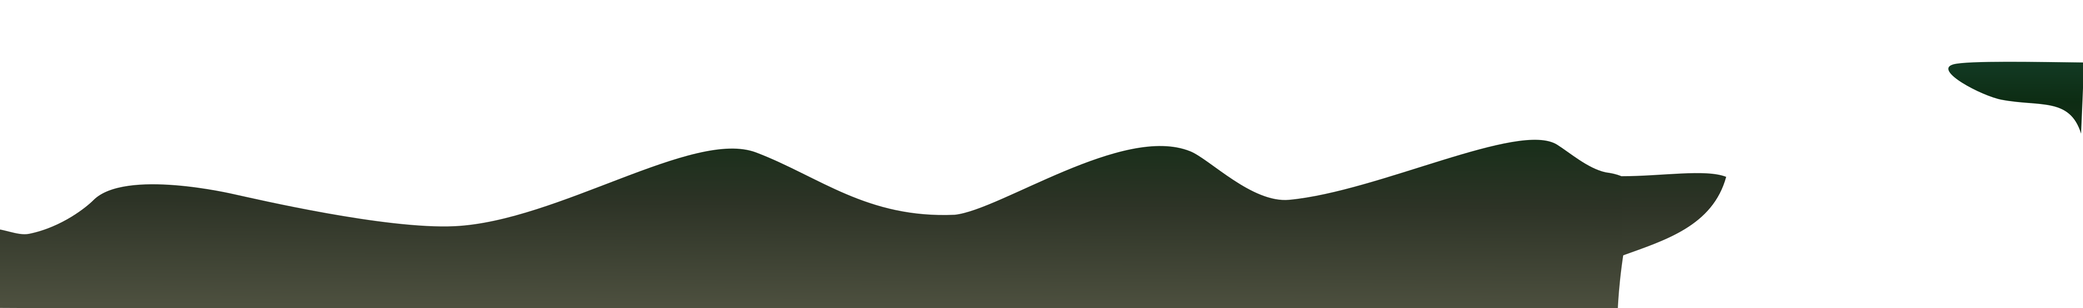
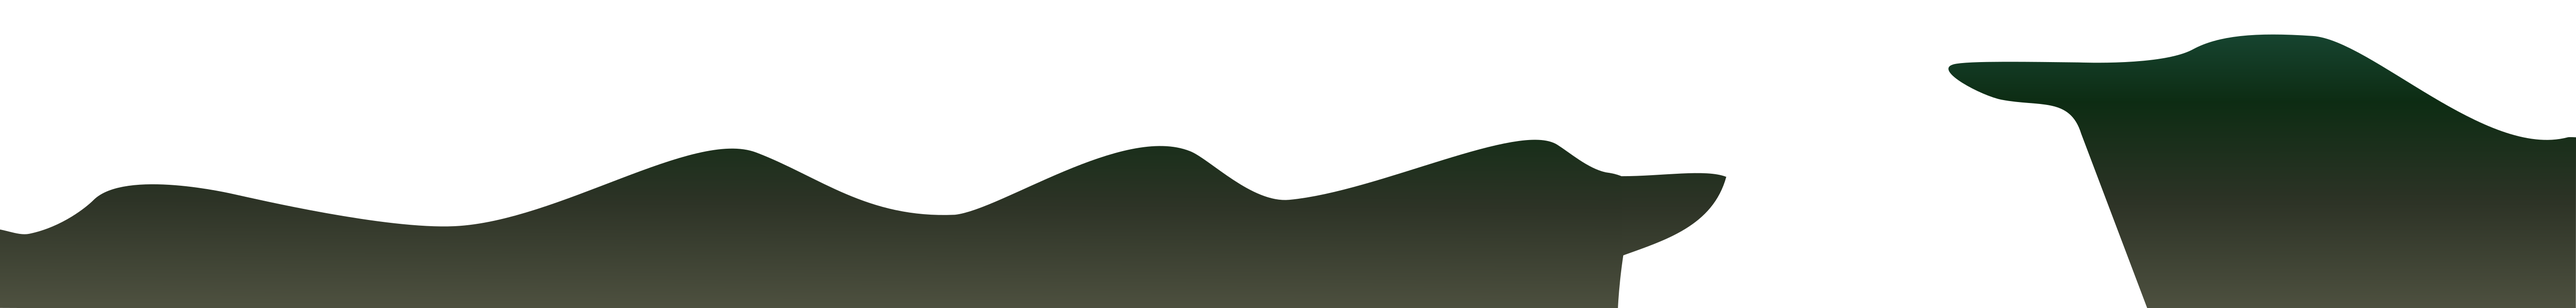
1.1 updated finished 3.1 added 4.1 and 1.3 still working on transitions

Changed region(s): [[0.0, 0.0938, 1.0, 1.0]]

diff --git a/SceneObjects.js b/SceneObjects.js
@@ -1,11 +1,53 @@
 // Em ordem inversa de aparição
 
+
 // 1.3
+
+sceneOneThree = new Scene(null, "OneOne");
+sceneOneThree.AdditionalStart = function() {
+    this.player.x = 3060.52;
+    this.player.y =  341.07;
+    this.player.graphic.x = 3060.52;
+    this.player.graphic.y =  341.07;
+    
+    this.updateTargetAfterEnded = true;
+    this.player.hasEnded = true;
+    this.timeToEndAfterEndedPath = 10000;
+    this.targetFollowPos = 3390;
+    this.target.x = 3390;
+    this.targetFollowPlayer = false;
+    
+    //game.camera.unfollow();
+    game.camera.x = 3390 - 480;
+   // game.camera.follow(this.target, Phaser.Camera.FOLLOW_LOCKON, 0.1, 0.1);
+}
+
+
+// 4.1
+
+pathFourOne = {x:[31, 142, 303, 437, 650, 849, 994, 1068, 1161, 1278, 1395, 1515, 1624, 1761, 1899, 1983],y : [318, 335, 391, 422, 397, 354, 337, 344, 388, 445, 467, 466, 502, 547, 543, 543]};
+
+sceneFourOne = new Scene(pathFourOne, "FourOne", sceneOneThree);
+sceneFourOne.AdditionalStart = function() {
+    this.other = game.add.sprite(2132,542, "cube");
+    this.other.pivot.x = 30;
+    this.other.pivot.y = 30;
+    this.other.tint = 0xECC599;
+}
+
+sceneFourOne.AdditionalEnd = function() {
+    this.other.destroy();
+}
+
+sceneFourOne.timeToEndAfterEndedPath = 2000;
+
+
+// 3.1
 
 pathThreeOne = {x : [-36, 179, 315, 434, 567, 680, 804, 864, 936],
 y :  [108, 264, 303, 356, 437, 497, 527, 578, 666]}
 
-sceneThreeOne = new Scene(pathThreeOne, "ThreeOne");
+sceneThreeOne = new Scene(pathThreeOne, "ThreeOne", sceneFourOne);
 sceneThreeOne.playerWalkAlone = true;
 sceneThreeOne.maxVel = 30;
 sceneThreeOne.followTarget = false;
@@ -22,6 +64,8 @@ sceneThreeOne.AdditionalUpdate = function() {
     }
 }
 
+sceneThreeOne.timeToEndAfterEndedPath = 1;
+
 
 
 
@@ -32,6 +76,8 @@ y : [384, 434, 452, 452, 428, 397, 359, 333, 308, 295, 328, 373, 415, 433, 404, 
 
 sceneOneOne = new Scene(pathOneOne, "OneOne", sceneThreeOne);
 sceneOneOne.updateWhenEndedPath = function() {
-    this.target.x = this.target.x + (3390 - this.target.x) * 0.01;
+    if(this.target.x < 3390)
+        this.target.x += 190 *game.time.physicsElapsed;
+   // this.target.x = this.target.x + (3390 - this.target.x) * 0.01;
 }
 

diff --git a/Scene.js b/Scene.js
@@ -13,6 +13,7 @@ function Scene( path, scenarySpr, nextScene) {
     this.maxVel = 30
     this.playerWalkAlone = false;
     this.targetFollowPlayer = true;
+    this.targetFollowPos = 480;
     this.followTarget = true;
     this.updateTargetAfterEnded = false;
     this.timeToEndAfterEndedPath = 5000;
@@ -22,10 +23,11 @@ Scene.prototype.start = function(target, player, game) {
     this.HasEndedPath = false;
     this.isStarted = true;
     this.cursors = game.input.keyboard.createCursorKeys();
-    game.scale.fullScreenScaleMode = Phaser.ScaleManager.SHOW_ALL;
+   
     this.target = target;
     this.player = player;
-    player.setPath(this.path.x, this.path.y);
+    if(this.path != null)
+        player.setPath(this.path.x, this.path.y);
     
     if(this.followTarget) {
         game.camera.follow(this.target, Phaser.Camera.FOLLOW_LOCKON, 0.1, 0.1);
@@ -98,19 +100,19 @@ Scene.prototype.TargetUpdate = function() {
         if(this.targetFollowPlayer)
             this.target.x = this.player.x - 60;
         else
-            this.target.x = 480 - 60;
+            this.target.x =  this.targetFollowPos - 60;
     }
     else if(this.cursors.right.isDown){
         if(this.targetFollowPlayer)
             this.target.x = this.player.x + 120;
         else
-            this.target.x = 480 + 120;
+            this.target.x = this.targetFollowPos + 120;
     }
     else {
         if(this.targetFollowPlayer)
             this.target.x = this.player.x + 30;
         else
-            this.target.x = 480 + 30;
+            this.target.x = this.targetFollowPos + 30;
     }
 }
 

diff --git a/Game.js b/Game.js
@@ -4,8 +4,11 @@ AppStates.Game = function () {
 
 AppStates.Game.prototype.create = function () {
    
+    game.input.keyboard.addKey(Phaser.Keyboard.F).onUp.add(AppStates.goFull);
     game.time.advancedTiming = true;
     game.time.desiredFps = 60;
+    
+    game.scale.fullScreenScaleMode = Phaser.ScaleManager.SHOW_ALL;
     
     this.inputs = { right : {}, left : {}, esc : {}, space : {}};
     this.inputs.esc = game.input.keyboard.addKey(Phaser.Keyboard.ESC);
@@ -32,9 +35,13 @@ AppStates.Game.prototype.create = function () {
     //this.renderingGroup.add(this.currentScene.bgWorld);   
    //this.renderingGroup.add(this.player);
   
-
+    game.input.keyboard.addKey(Phaser.Keyboard.C).onUp.add(this.printPos,this);
 
 };
+
+AppStates.Game.prototype.printPos = function() {
+    console.log("pos : " + this.player.x + ", " + this.player.y);
+}
 
 AppStates.Game.prototype.update = function () {
     
@@ -56,9 +63,11 @@ AppStates.Game.prototype.update = function () {
 
 AppStates.Game.prototype.nextScene = function(scene){
     this.currentScene.end();
-    game.camera.flash(0x000000,1000,true);
     this.currentScene = scene;
-    game.time.events.add(900, this.nextScenept2, this);
+    game.time.events.add(500, this.nextScenept2, this);
+    game.camera.flash(0x000000,1000,true);
+   
+
 
 }
 

diff --git a/Editor.js b/Editor.js
@@ -23,10 +23,10 @@ AppStates.Editor.prototype.create = function () {
     this.background = game.add.sprite(0,0,"bg");
     
 
-    this.bgWorld = game.add.sprite(-480,0,"OneOne");
+    this.bgWorld = game.add.sprite(-480,0,"FourOne");
    // this.bgWorld = game.add.sprite(0,0,"ThreeOne");
     this.path = new Path(this.bgWorld.width * 1.2, this.bgWorld.height* 1.2);
-    this.path.AddArray(pathOneOne);
+    this.path.AddArray(pathFourOne);
     
     game.world.setBounds(-480, -480, this.bgWorld.width * 1.2 + 480, this.bgWorld.height* 1.2 + 480);
       
